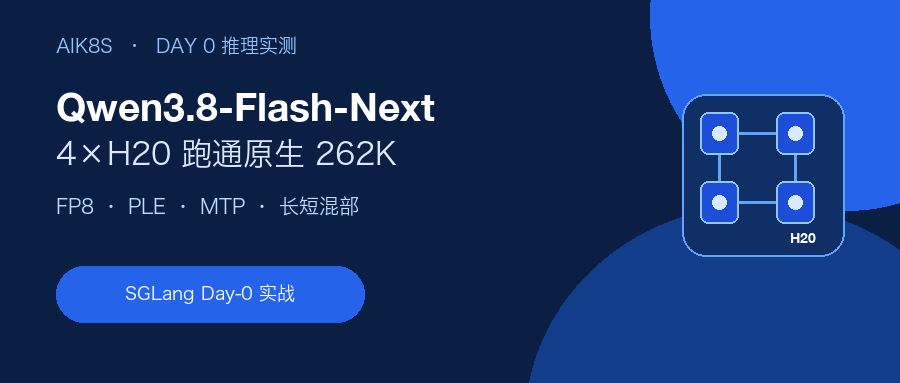
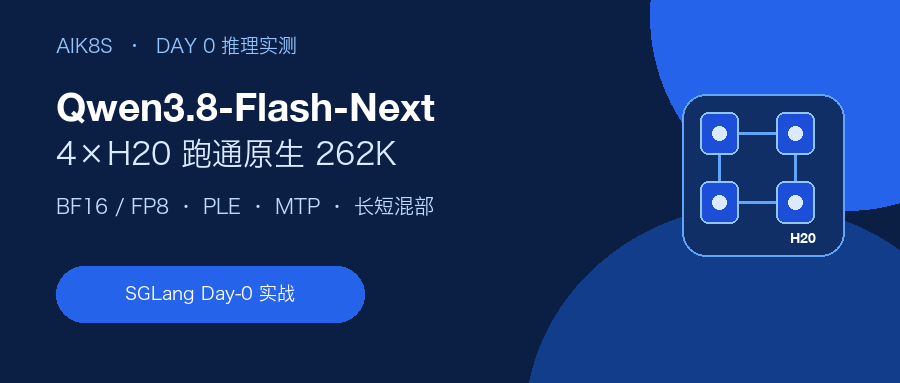
docs: compare Qwen3.8 Flash Next BF16 and FP8

Changed region(s): [[0.2178, 0.517, 0.4978, 0.5744], [0.0622, 0.517, 0.1867, 0.5744]]

diff --git a/scripts/generate_qwen38_flash_next_h20_wechat_assets.py b/scripts/generate_qwen38_flash_next_h20_wechat_assets.py
@@ -81,7 +81,7 @@ def cover() -> None:
     draw.text((56, 36), "AIK8S  ·  DAY 0 推理实测", font=font(19), fill="#93C5FD")
     draw.text((56, 82), "Qwen3.8-Flash-Next", font=font(39, latin=True, bold=True), fill=WHITE)
     draw.text((56, 137), "4×H20 跑通原生 262K", font=font(31, bold=True), fill="#DBEAFE")
-    draw.text((56, 196), "FP8 · PLE · MTP · 长短混部", font=font(20), fill="#BFDBFE")
+    draw.text((56, 196), "BF16 / FP8 · PLE · MTP · 长短混部", font=font(20), fill="#BFDBFE")
     button = (56, 266, 364, 322)
     draw.rounded_rectangle(button, radius=28, fill=BLUE)
     center_text(draw, button, "SGLang Day-0 实战", font(18, bold=True), WHITE)
@@ -101,9 +101,9 @@ def cover() -> None:
 
 def topology() -> None:
     image, draw = canvas()
-    header(draw, "Day-0 实测路径", "官方 FP8 Checkpoint 与 SGLang 专用镜像；不使用官方 H200/B200 数字代替")
+    header(draw, "Day-0 实测路径", "官方 BF16 / FP8 Checkpoint 与 SGLang 专用镜像；不使用官方 H200/B200 数字代替")
     cards = [
-        (50, 192, 290, 508, "模型", ["176B Serving Body", "约 6B Active / Token", "FP8 · 172.76 GiB", "原生 262K Context"], BLUE, "#EFF6FF"),
+        (50, 192, 290, 508, "模型", ["176B Serving Body", "约 6B Active / Token", "BF16 335 / FP8 173 GiB", "原生 262K Context"], BLUE, "#EFF6FF"),
         (335, 192, 575, 508, "框架", ["SGLang Day-0", "QSA + GDN", "PLE Offload", "OpenAI-compatible"], CYAN, "#ECFEFF"),
         (620, 192, 860, 508, "硬件", ["4 × H20 141 GB", "TP4 / EP4", "单机 SM90", "约 15.25 GiB 余量"], ORANGE, "#FFF7ED"),
         (905, 192, 1150, 508, "验证", ["Thinking / Tool", "Vision / OpenWebUI", "250K Needle 9/9", "PLE / MTP A/B"], TEAL, "#F0FDFA"),
@@ -196,14 +196,14 @@ def mixed_workload() -> None:
         ("P95 E2E", 3.769, 10.727, "2.85×"),
     ]
     for idx, (label, base, mixed, multiple) in enumerate(groups):
-        x = 116 + idx * 510
+        x = 116 + idx * 534
         draw.text((x, 205), label, font=font(28, latin=True, bold=True), fill=INK)
         draw.text((x, 250), "短请求独立", font=font(18), fill=MUTED)
-        draw.rounded_rectangle((x + 150, 250, x + 150 + int(base / 11 * 290), 284), radius=8, fill=BLUE)
-        draw.text((x + 455, 250), f"{base:.2f}s", font=font(19, latin=True, bold=True), fill=BLUE)
+        draw.rounded_rectangle((x + 150, 250, x + 150 + int(base / 11 * 230), 284), radius=8, fill=BLUE)
+        draw.text((x + 410, 250), f"{base:.2f}s", font=font(19, latin=True, bold=True), fill=BLUE)
         draw.text((x, 322), "+ 65K Prefill", font=font(18), fill=MUTED)
-        draw.rounded_rectangle((x + 150, 322, x + 150 + int(mixed / 11 * 290), 356), radius=8, fill=RED)
-        draw.text((x + 455, 322), f"{mixed:.2f}s", font=font(19, latin=True, bold=True), fill=RED)
+        draw.rounded_rectangle((x + 150, 322, x + 150 + int(mixed / 11 * 230), 356), radius=8, fill=RED)
+        draw.text((x + 410, 322), f"{mixed:.2f}s", font=font(19, latin=True, bold=True), fill=RED)
         draw.rounded_rectangle((x + 150, 405, x + 330, 468), radius=31, fill="#FEF2F2")
         center_text(draw, (x + 150, 405, x + 330, 468), multiple, font(31, latin=True, bold=True), RED)
     draw.line((590, 205, 590, 494), fill="#E2E8F0", width=2)
@@ -247,6 +247,51 @@ def ple_mtp() -> None:
     save(image, "qwen38-flash-next-h20-ple-mtp.png", copy_to_docs=True)
 
 
+def precision_ab() -> None:
+    image, draw = canvas(900)
+    header(draw, "BF16 与 FP8：容量优势不等于所有负载都更快", "同一套 4×H20、SGLang 与 TP4/EP4；短时合成 A/B，不是质量评测")
+
+    cards = [
+        (54, 158, 388, 334, "权重加载", "88.11s", "149.24s", "FP8 快 40.9%"),
+        (433, 158, 767, 334, "Token Pool", "3.680M", "2.458M", "FP8 多 49.7%"),
+        (812, 158, 1146, 334, "Running Requests", "587", "392", "FP8 多 49.7%"),
+    ]
+    for left, top, right, bottom, title, fp8, bf16, note in cards:
+        draw.rounded_rectangle((left, top, right, bottom), radius=22, fill=WHITE, outline=GRID, width=2)
+        center_text(draw, (left + 18, top + 15, right - 18, top + 51), title, font(20, bold=True), INK)
+        draw.text((left + 30, top + 70), "FP8", font=font(17, latin=True, bold=True), fill=BLUE)
+        draw.text((left + 102, top + 65), fp8, font=font(27, latin=True, bold=True), fill=BLUE)
+        draw.text((left + 30, top + 111), "BF16", font=font(17, latin=True, bold=True), fill=ORANGE)
+        draw.text((left + 102, top + 106), bf16, font=font(27, latin=True, bold=True), fill=ORANGE)
+        draw.rounded_rectangle((left + 86, top + 143, right - 28, bottom - 10), radius=14, fill="#ECFDF5")
+        center_text(draw, (left + 86, top + 143, right - 28, bottom - 10), note, font(15, bold=True), TEAL)
+
+    draw.rounded_rectangle((54, 364, 1146, 812), radius=24, fill=WHITE, outline=GRID, width=2)
+    draw.text((82, 392), "实测吞吐", font=font(27, bold=True), fill=INK)
+    draw.text((82, 433), "场景", font=font(18, bold=True), fill=MUTED)
+    draw.text((500, 433), "FP8", font=font(18, latin=True, bold=True), fill=BLUE)
+    draw.text((680, 433), "BF16", font=font(18, latin=True, bold=True), fill=ORANGE)
+    draw.text((860, 433), "观察", font=font(18, bold=True), fill=MUTED)
+    rows = [
+        ("128/64 · C1 输出 tok/s", "90.32", "97.16", "BF16 +7.6%"),
+        ("128/64 · C8 输出 tok/s", "535.12", "531.38", "基本持平"),
+        ("128/64 · C64 输出 tok/s", "1,860.09", "1,999.76", "BF16 +7.5%"),
+        ("128/1K · C1 输出 tok/s", "114.11", "123.43", "BF16 +8.2%"),
+        ("128/1K · C8 输出 tok/s", "702.56", "750.18", "BF16 +6.8%"),
+        ("32K/128 · C1 输入 tok/s", "10,668.22", "10,329.37", "FP8 +3.3%"),
+    ]
+    for idx, (case, fp8, bf16, note) in enumerate(rows):
+        y = 478 + idx * 51
+        if idx % 2 == 0:
+            draw.rounded_rectangle((76, y - 8, 1122, y + 34), radius=8, fill="#F8FAFC")
+        draw.text((86, y), case, font=font(17), fill=INK)
+        draw.text((500, y), fp8, font=font(17, latin=True, bold=True), fill=BLUE)
+        draw.text((680, y), bf16, font=font(17, latin=True, bold=True), fill=ORANGE)
+        draw.text((860, y), note, font=font(17, bold=True), fill=TEAL if "FP8" in note or "持平" in note else ORANGE)
+    draw.text((58, 852), "结论：FP8 的确定性收益是容量与启动；Decode 吞吐需按业务实测，不能从精度名称直接推断。", font=font(19, bold=True), fill=MUTED)
+    save(image, "qwen38-flash-next-h20-precision.png", copy_to_docs=True)
+
+
 def framework_status() -> None:
     image, draw = canvas()
     header(draw, "发布当天，两个框架处于不同阶段", "截至 2026-08-27；这是带日期的上游状态，不是永久结论")
@@ -274,6 +319,7 @@ def main() -> None:
     long_context()
     mixed_workload()
     ple_mtp()
+    precision_ab()
     framework_status()
 
 

diff --git a/docs/ai-k8s/practices/qwen38-flash-next-sglang-day0.md b/docs/ai-k8s/practices/qwen38-flash-next-sglang-day0.md
@@ -1,15 +1,15 @@
 ---
 title: Qwen3.8-Flash-Next Day 0 实战：4×H20 跑通原生 262K
-description: 用 SGLang Day-0 官方镜像和 FP8 权重，在 4×H20 上验证 Qwen4 预览架构、262K 长上下文、PLE、MTP、长短混部与框架支持边界
+description: 用 SGLang Day-0 官方镜像和 BF16/FP8 权重，在 4×H20 上验证 Qwen4 预览架构、精度与容量、262K 长上下文、PLE、MTP、长短混部与框架支持边界
 status: published
 last_reviewed: 2026-08-27
 ---
 
 # Qwen3.8-Flash-Next Day 0 实战：4×H20 跑通原生 262K
 
-2026 年 8 月 26 日，Qwen 发布 Qwen3.8-Flash-Next，并把它定位为 Qwen4 架构的实验性预览；SGLang 同日给出专用镜像和部署 Cookbook。一天之内，我在 Kubernetes 上完成了两条实测：官方 FP8 权重在 **4×141 GB H20** 上以 TP4/EP4 跑通原生 262,144 Token Context，Thinking、Tool Call 和图片输入均可用；官方镜像在 **8×48 GB L20** 上不能直接运行，只有替换 QSA Decode Kernel 的兼容补丁能够生成，而且性能不具备生产参考价值。
+2026 年 8 月 26 日，Qwen 发布 Qwen3.8-Flash-Next，并把它定位为 Qwen4 架构的实验性预览；SGLang 同日给出专用镜像和部署 Cookbook。一天之内，我在 Kubernetes 上完成了三条实测：官方 FP8 与 BF16 权重都在 **4×141 GB H20** 上以 TP4/EP4 跑通，原生 262,144 Token Context、Thinking、Tool Call 和图片输入均可用；官方镜像在 **8×48 GB L20** 上不能直接运行，只有替换 QSA Decode Kernel 的兼容补丁能够生成，而且性能不具备生产参考价值。
 
-H20 短请求输出吞吐从并发 1 的 90.32 tok/s 扩展到并发 64 的 1,860.09 tok/s；接近 262K 的单请求可完成，P95 TTFT 为 19.16 秒；4K 共享系统提示词场景得到 50.2% 的缓存命中率。这里的结论来自本地实测，不使用官方 H200/B200 数字代替。
+H20 FP8 短请求输出吞吐从并发 1 的 90.32 tok/s 扩展到并发 64 的 1,860.09 tok/s；接近 262K 的单请求可完成，P95 TTFT 为 19.16 秒；4K 共享系统提示词场景得到 50.2% 的缓存命中率。BF16 对照显示，FP8 的 Token Pool 多 49.7%、权重加载快 40.9%，但部分 Decode 工作负载反而是 BF16 快约 7%–8%。这里的结论来自本地实测，不使用官方 H200/B200 数字代替。
 
 框架支持也必须带时间戳看：**截至 2026 年 8 月 27 日，SGLang 已经提供 Qwen3.8-Flash-Next 的 Day-0 专用镜像、模型实现和官方启动配方；vLLM 稳定版与主分支尚不能直接部署，模型注册、PLE 和 Qwen4 融合 Kernel 仍在 Open PR 中。** 这不是说 vLLM 永远不支持，而是本文发布当天两者的可用状态不同。
 
@@ -276,13 +276,47 @@ AssertionError: initial_state must be float32, got torch.bfloat16
 
 参考：[SGLang Qwen3.8-Flash-Next 官方配置源码](https://github.com/sgl-project/sglang/blob/1c8f2b38cbb318cadb6e0b5cd7cc8ce6a3fc8209/docs/src/snippets/configs/Qwen/qwen3.8-flash-next.jsx)、[SGLang Mamba Server Arguments](https://github.com/sgl-project/sglang/blob/main/docs/advanced_features/server_arguments.md)。
 
-## 14. L20 为什么不能当作正式性能路径
+## 14. BF16 与 FP8：容量优势不等于吞吐全面领先
+
+在同一套 4×H20、SGLang、TP4/EP4、PLE On、MTP Off 配置下，我把官方 BF16 Checkpoint 作为唯一主要变量重新启动并复测。两条路径使用相同的 0.85 Static Memory Fraction，因此稳定态显存占用接近，只说明引擎会把余量继续分给缓存，不能据此得出两种精度容量相同。
+
+### 14.1 启动与容量
+
+| 指标 | FP8 | BF16 | 观察 |
+| --- | ---: | ---: | --- |
+| 权重加载 | 88.11 s | 149.24 s | FP8 快 40.9% |
+| Engine Ready | 234.88 s | 271.40 s | FP8 快 13.5% |
+| 每 Rank 权重 | 32.20 GiB | 60.44 GiB | FP8 少 28.24 GiB |
+| `max_total_num_tokens` | 3,680,256 | 2,458,432 | FP8 多 49.7% |
+| `max_running_requests` | 587 | 392 | FP8 多 49.7% |
+
+FP8 的确定性收益非常清楚：Checkpoint 约为 BF16 的一半，权重加载更快，并把更多显存留给 Mamba/KV State。即使两者稳定态都接近 0.85 的显存水位，FP8 能容纳的 Token Pool 仍多约 122 万。
+
+### 14.2 典型工作负载 A/B
+
+| 输入 / 输出 | 并发 | FP8 Output tok/s | BF16 Output tok/s | 观察 |
+| ---: | ---: | ---: | ---: | --- |
+| 128 / 64 | 1 | 90.32 | 97.16 | BF16 +7.6% |
+| 128 / 64 | 8 | 535.12 | 531.38 | 基本持平 |
+| 128 / 64 | 64 | 1,860.09 | 1,999.76 | BF16 +7.5% |
+| 128 / 1,024 | 1 | 114.11 | 123.43 | BF16 +8.2% |
+| 128 / 1,024 | 8 | 702.56 | 750.18 | BF16 +6.8% |
+
+32K 输入、128 输出、C1 的 Input Throughput 则是 FP8 10,668.22 tok/s、BF16 10,329.37 tok/s，FP8 高约 3.3%；BF16 P95 TTFT 为 2.06 秒，FP8 为 1.86 秒。250K 单针在 10%、50%、90% 三个位置，两种精度均为 3/3 通过；BF16 单次约 19.77 秒，FP8 约 18.90 秒。
+
+![BF16 与 FP8 的启动、容量和典型吞吐 A/B](../../assets/practices/qwen38-flash-next-sglang/qwen38-flash-next-h20-precision.png)
+
+这些是短时合成 A/B，不是输出质量评测；C8 的 FP8 使用稳定态复测值 535.12 tok/s，避免把另一轮 578.77 tok/s 的运行波动包装成精度差异。当前能下的结论是：**FP8 明确换来更高容量和更快启动，但在这套 H20 Kernel 路径上并没有全面赢过 BF16 的 Decode 吞吐。** 是否采用 FP8，应同时看单实例容量、TTFT SLO、真实输入/输出分布和质量评测，而不是只看精度名称。
+
+机器可读结果见 [`h20-bf16-summary-20260827.json`](https://github.com/runzhliu/aik8s/blob/main/examples/qwen38-flash-next-sglang/results/h20-bf16-summary-20260827.json)。
+
+## 15. L20 为什么不能当作正式性能路径
 
 官方 Day-0 镜像在 L20（SM89）上直接失败：FlashInfer GDN 要求 SM90+；改用 Triton GDN 后可以越过线性注意力，但 QSA 的 FA4/CuTe 路径继续报 `unable to compute crd2idx`。
 
 为了判断是权重还是 Kernel 问题，我做了一个兼容性补丁：QSA Decode 逐请求回退到 PyTorch SDPA，并关闭 CUDA Graph。8×L20、TP8/EP8、32K 可以正确生成，但 C1 128/64 只有 7.47 tok/s，P95 TPOT 131.77 ms；这是正确性证明，不是 SGLang 的正式 L20 性能。公开结果必须同时写出补丁和禁用项，不能只留下“L20 已支持”。
 
-## 15. SGLang 已支持，vLLM 还在适配
+## 16. SGLang 已支持，vLLM 还在适配
 
 截至 2026 年 8 月 27 日，框架状态可以归纳为：**SGLang 已经能用官方 Day-0 镜像和配方直接部署；vLLM 稳定版和主分支尚不能直接部署，社区适配正在进行，FP8 也还不能按正式支持使用。**
 
@@ -292,7 +326,7 @@ AssertionError: initial_state must be float32, got torch.bfloat16
 
 因此可以拉取 vLLM PR Commit 做实验，但那是维护自定义分支，不应注册成生产稳定模型。本文选择 SGLang，不是因为 vLLM 永远不能支持，而是 SGLang 在发布当天已经交付了可运行的模型实现、专用镜像、PLE、GDN/QSA Backend 和启动配方。这个判断只代表 2026 年 8 月 27 日的上游状态，后续应以 PR 合入和 Release Notes 为准。
 
-## 16. 接入 OpenWebUI
+## 17. 接入 OpenWebUI
 
 SGLang 暴露的是 OpenAI-compatible API，OpenWebUI 不需要理解 QSA、PLE 或 TP/EP。在管理员的 OpenAI-compatible Connections 中填写：
 
@@ -304,7 +338,7 @@ Model ID: qwen38-flash-next
 
 注册前应从 OpenWebUI 所在网络分别验证 `/v1/models` 和一次 Chat Completion。只验证浏览器能打开入口不够：模型服务可能 Ready，但跨网络路由、证书、超时或访问控制仍会使 UI 返回 502。
 
-## 17. 可以复用的 Day-0 检查表
+## 18. 可以复用的 Day-0 检查表
 
 1. 固定模型 Revision、镜像 Digest 和硬件架构，不只记 Tag；
 2. 用零 GPU Pod 验证精确模型目录和运行时模型注册；
